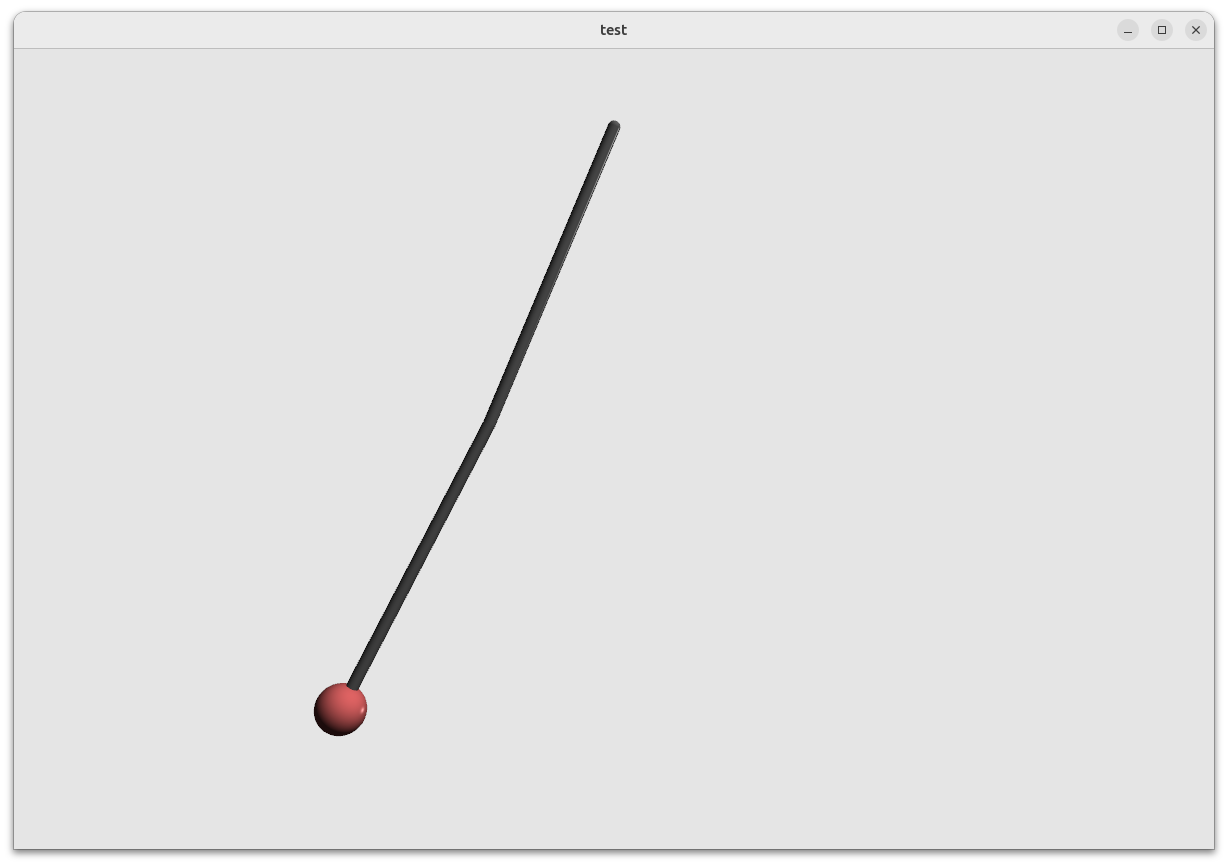
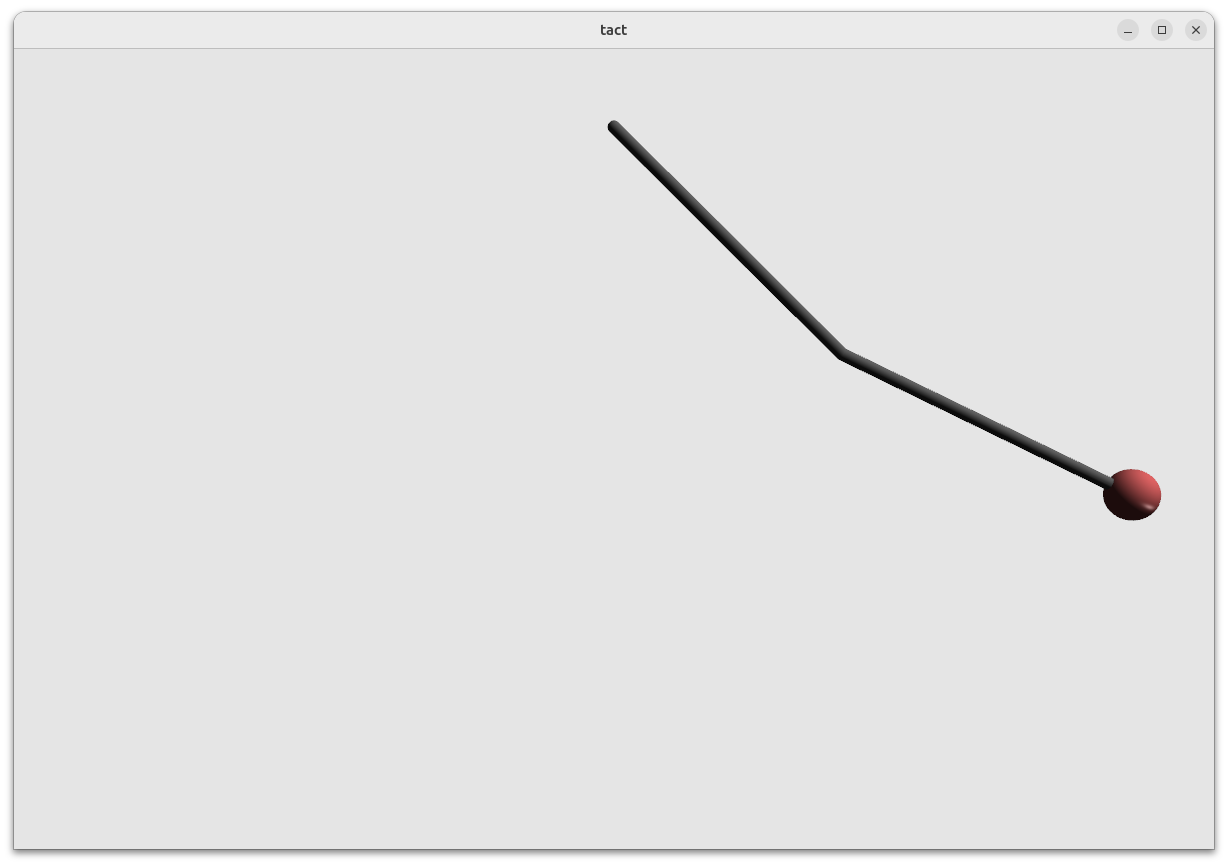
Release pytact 0.1.0a4

diff --git a/demos/topology/demo_delete.py b/demos/topology/demo_delete.py
@@ -27,7 +27,7 @@ import tact
 # ── Build a tiny YAML library in a temp dir ────────────────────────────────────
 TMP = tempfile.mkdtemp(prefix='tact_delete_demo_')
 
-FLOOR_YML = """
+FLOOR_YAML = """
 method: lcp
 dt: 0.001
 g: [0, 0, -9.81]
@@ -39,7 +39,7 @@ bodies:
     shapes: [{type: box, pos: [0, 0, -0.05], param: [0.8, 0.8, 0.05], contact: [1, floor], rgb: [0.85, 0.85, 0.85]}]
 """
 
-def obj_yml(shape, spec, rgb, q0):
+def obj_yaml(shape, spec, rgb, q0):
     """`spec` is the shape parameter — for primitives it's a list literal like
     `[0.07, 0.07, 0.07]` rendered as YAML `param: ...`; for mesh it's a path
     string rendered as YAML `file: ...`."""
@@ -57,14 +57,14 @@ bodies:
     shapes: [{{type: {shape}, {shape_spec}, contact: [1, obj], rgb: {rgb}}}]
 """
 
-def write_yml(name, content):
-    """Write <TMP>/<name>.yml and return the path-without-suffix so it can be
+def write_yaml(name, content):
+    """Write <TMP>/<name>.yaml and return the path-without-suffix so it can be
     passed directly to tact.Env() / env.add()."""
-    with open(os.path.join(TMP, name + '.yml'), 'w') as f:
+    with open(os.path.join(TMP, name + '.yaml'), 'w') as f:
         f.write(content)
     return os.path.join(TMP, name)
 
-floor_path = write_yml('floor', FLOOR_YML)
+floor_path = write_yaml('floor', FLOOR_YAML)
 
 # Object pool: each entry → unique YAML. (shape, param, rgb, drop_xy)
 # `mesh_teal` references the local pyramid.obj copy, keeping this demo self-contained.
@@ -80,7 +80,7 @@ POOL = {
     'mesh_teal':     ('mesh',     PYRAMID_OBJ, '[0.4, 0.9, 0.9]',  (-0.20,  0.20)),
 }
 for key, (shape, param, rgb, (x, y)) in POOL.items():
-    write_yml(key, obj_yml(shape, param, rgb, f'[{x}, {y}, 0.6, 0, 0, 0]'))
+    write_yaml(key, obj_yaml(shape, param, rgb, f'[{x}, {y}, 0.6, 0, 0, 0]'))
 
 
 # ── Event schedule (sim seconds == real seconds at dt=1ms + VSync redraw) ─────

diff --git a/tact/sim.py b/tact/sim.py
@@ -499,8 +499,13 @@ class Model:
         before = self._snapshot_sizes()
         fdict_before = set(self.fdict.keys())
 
-        filename = modelname + '.yml'
-        if not os.path.exists(filename): filename = modelname + '.yaml'
+        _, ext = os.path.splitext(modelname)
+        if ext in ('.yaml', '.yml'):
+            filename = modelname
+        else:
+            filename = modelname + '.yaml'
+            if not os.path.exists(filename):
+                filename = modelname + '.yml'
         # Directory the YAML lives in — relative `file:` paths for mesh shapes
         # resolve against this so a model can ship its own meshes/ alongside.
         yml_dir = os.path.dirname(os.path.abspath(filename))
@@ -899,7 +904,7 @@ class Model:
             present = [k for k in SIM_KEYS + VIEW_KEYS + LIGHTS_KEYS if k in config]
             if present:
                 src = modelname or prefix or '?'
-                #print(f"[tact] warn: {src}.yml has top-level {present}; "
+                #print(f"[tact] warn: {src}.yaml has top-level {present}; "
                 #      f"globals only apply on the initial Model load — "
                 #      f"ignored on add().")
         
@@ -2659,7 +2664,7 @@ class CEnv:
         # frame-in-body 4x4 from Model.ftran — identical sensor placement on
         # both backends). The YAML body name resolves in the XML as a BODY
         # first, then a SITE: when the XML's body-frame origin differs from
-        # the YAML's (zen: xml body origin at the feet, yml `base` at the
+        # the YAML's (zen: xml body origin at the feet, yaml `base` at the
         # hip), the XML carries a site at the YAML body frame instead — the
         # same site that already anchors the proprio sensors. A spec matching
         # neither is WARNED and skipped (graceful degradation, like mjenv's

diff --git a/demos/box-wall/ball_throw.py b/demos/box-wall/ball_throw.py
@@ -11,7 +11,7 @@ Controls (focus the render window):
   ESC    — quit
   mouse  — orbit (drag left), pan (drag right), zoom (scroll)
 
-How it works: the ball is a free-flying sphere (ball.yml) added to the
+How it works: the ball is a free-flying sphere (ball.yaml) added to the
 live scene with env.add(), placed in front of the wall and given an initial
 velocity toward it. At most MAX_BALLS balls are kept — older ones are removed
 with env.delete() so the scene (and the renderer's mesh slots) don't fill up.
@@ -33,7 +33,7 @@ SPEED     = 5.5      # launch speed (m/s) toward the wall
 
 # render=False: we call _win_render() ourselves so we can read its return code
 # (1 = SPACE pressed, -1 = ESC) — Env.step()'s built-in render swallows it.
-env = tact.Env(os.path.join(HERE, 'box_wall'), render=False)  # dt=0.001 from box_wall.yml
+env = tact.Env(os.path.join(HERE, 'box_wall'), render=False)  # dt=0.001 from box_wall.yaml
 
 balls = []           # live ball group names, oldest first
 n_thrown = 0

diff --git a/demos/cartpole/cartpole-sb3.py b/demos/cartpole/cartpole-sb3.py
@@ -4,14 +4,14 @@
     uv run python cartpole-sb3.py            # train 10k steps -> saves out.zip
     uv run python cartpole-sb3.py play       # load out.zip, render a rollout
 
-The cartpole model (`cartpole.yml`) is cart (lin) + pole (rev), both active →
+The cartpole model (`cartpole.yaml`) is cart (lin) + pole (rev), both active →
 dof=2; only the cart is actuated (action drives u[0], pole gets 0 = underactuated).
 proprio y (feeds) = [cart_pos, pole_pos, cart_vel, pole_vel].
 """
 import os, sys, time, random
 import numpy as np
 # Run from anywhere: put the checkout root on sys.path so `import tact` works, and chdir into
-# this dir so tact.Env('cartpole') resolves cartpole.yml next to this script.
+# this dir so tact.Env('cartpole') resolves cartpole.yaml next to this script.
 HERE = os.path.dirname(os.path.abspath(__file__))
 sys.path.insert(0, os.path.dirname(os.path.dirname(HERE)))
 os.chdir(HERE)

diff --git a/demos/tactile/plot.py b/demos/tactile/plot.py
@@ -140,7 +140,7 @@ def main():
                     help="tactile IPC names to subscribe")
     ap.add_argument("--shape", default="20x20", help="taxel grid shape, e.g. 20x20")
     ap.add_argument("--channels", type=int, default=4,
-                    help="payload channel count; demo.yml uses 4")
+                    help="payload channel count; demo.yaml uses 4")
     ap.add_argument("--channel", default="normal",
                     help=f"channel to display: {', '.join(CHANNELS)} or numeric index")
     ap.add_argument("--hz", type=float, default=20.0, help="terminal refresh rate")

diff --git a/tact/control.py b/tact/control.py
@@ -564,7 +564,7 @@ class GaitScheduler:
         swing   if  p_i >= duty_i,  with swing_phase = (p_i - duty_i) / (1 - duty_i)
 
     Foot index order is whatever the caller adopts (this project uses [FL, FR, RL, RR]
-    matching dog.yml's foot1..foot4). The class is robot-agnostic — works for any
+    matching dog.yaml's foot1..foot4). The class is robot-agnostic — works for any
     n-leg robot (biped, quadruped, hexapod).
 
     Convention: the cycle starts at stance (p=0 ⇒ touchdown). Standard parameters

diff --git a/demos/tactile/demo.py b/demos/tactile/demo.py
@@ -35,7 +35,7 @@ def main():
     args = ap.parse_args()
 
     scene = args.scene
-    if not os.path.isabs(scene) and not os.path.exists(scene) and not os.path.exists(scene + ".yml"):
+    if not os.path.isabs(scene) and not os.path.exists(scene) and not os.path.exists(scene + ".yaml"):
         scene = os.path.join(HERE, scene)
 
     env = tact.Env(scene, render=not args.headless, redraw=args.redraw)

diff --git a/demos/basic/runner.py b/demos/basic/runner.py
@@ -7,7 +7,7 @@ sys.path.insert(0, PROJECT_ROOT)
 import socket, numpy as np, tact
 
 def scene_path(name):
-    if os.path.isabs(name) or os.path.exists(name) or os.path.exists(name + '.yml'):
+    if os.path.isabs(name) or os.path.exists(name) or os.path.exists(name + '.yaml'):
         return name
     if os.path.sep in name or (os.path.altsep and os.path.altsep in name):
         return name

diff --git a/demos/raymap/raymap_demo.py b/demos/raymap/raymap_demo.py
@@ -1,7 +1,7 @@
 #!/usr/bin/env -S uv run python
 """raymap visualization demo.
 
-Loads raymap_demo.yml (a small scene with one of each shape type), shoots two
+Loads raymap_demo.yaml (a small scene with one of each shape type), shoots two
 depth maps from two named camera frames, and saves the result as side-by-side
 images. Pass --show to also open the PNG in the system image viewer.
 

diff --git a/README.md b/README.md
@@ -67,7 +67,7 @@ package-local native library at `tact/bin/libtact.so`.
 
 ![Minimal 2-link manipulator](demos/minimal/minimal.png)
 
-Create `minimal.yml`:
+Create `minimal.yaml`:
 
 ```yaml
 sim: {solver: lcp, dt: 0.002, g: [0, 0, -9.81]}
